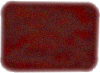
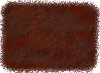
planting updated

diff --git a/SonOfRobin.Core/Game/Craft/CraftData.cs b/SonOfRobin.Core/Game/Craft/CraftData.cs
@@ -34,7 +34,11 @@ namespace SonOfRobin
 
                 new Craft.Recipe(pieceToCreate: PieceTemplate.Name.Campfire, ingredients: new Dictionary<PieceTemplate.Name, byte> { { PieceTemplate.Name.Stone, 8 }}, fatigue: fatigueStructureSmall, isReversible: true),
 
-                new Craft.Recipe(pieceToCreate: PieceTemplate.Name.FertileGroundMedium, ingredients: new Dictionary<PieceTemplate.Name, byte> { { PieceTemplate.Name.Clay, 2 }, { PieceTemplate.Name.ShovelStone, 2 }}, fatigue: fatigueStructureMedium, isReversible: false, isHidden: true),
+                new Craft.Recipe(pieceToCreate: PieceTemplate.Name.FertileGroundSmall, ingredients: new Dictionary<PieceTemplate.Name, byte> { { PieceTemplate.Name.Clay, 2 }, { PieceTemplate.Name.ShovelStone, 1 }}, fatigue: fatigueStructureSmall, isReversible: false, isHidden: true, unlocksWhenCrafted: new List<PieceTemplate.Name> {PieceTemplate.Name.FertileGroundMedium }, craftCountToUnlock: 3),
+
+                new Craft.Recipe(pieceToCreate: PieceTemplate.Name.FertileGroundMedium, ingredients: new Dictionary<PieceTemplate.Name, byte> { { PieceTemplate.Name.Clay, 4 }, { PieceTemplate.Name.ShovelStone, 1 }}, fatigue: fatigueStructureMedium, isReversible: false, isHidden: true, unlocksWhenCrafted: new List<PieceTemplate.Name> {PieceTemplate.Name.FertileGroundBig }, craftCountToUnlock: 2),
+
+                new Craft.Recipe(pieceToCreate: PieceTemplate.Name.FertileGroundBig, ingredients: new Dictionary<PieceTemplate.Name, byte> { { PieceTemplate.Name.Clay, 6 }, { PieceTemplate.Name.ShovelIron, 1 }}, fatigue: fatigueStructureBig, isReversible: false, isHidden: true),
 
                 new Craft.Recipe(pieceToCreate: PieceTemplate.Name.TentSmall, ingredients: new Dictionary<PieceTemplate.Name, byte> { { PieceTemplate.Name.Stick, 20 }, { PieceTemplate.Name.WoodLogRegular, 4 }}, fatigue: fatigueStructureSmall,  isReversible: true, unlocksWhenCrafted: new List<PieceTemplate.Name> { PieceTemplate.Name.TentMedium }),
 
@@ -89,7 +93,7 @@ namespace SonOfRobin
 
                 new Craft.Recipe(pieceToCreate: PieceTemplate.Name.SpearStone, ingredients: new Dictionary<PieceTemplate.Name, byte> { { PieceTemplate.Name.Stick, 3 }, { PieceTemplate.Name.WoodLogRegular, 1 }, { PieceTemplate.Name.Stone, 4 }}, fatigue: fatigueItemSmall, isReversible: true, isHidden: true, unlocksWhenCrafted: new List<PieceTemplate.Name> {PieceTemplate.Name.SpearIron }),
 
-                new Craft.Recipe(pieceToCreate: PieceTemplate.Name.ShovelStone, ingredients: new Dictionary<PieceTemplate.Name, byte> { { PieceTemplate.Name.WoodLogHard, 1 }, { PieceTemplate.Name.Stone, 4 }}, fatigue: fatigueItemMedium, isReversible: true, isHidden: false, unlocksWhenCrafted: new List<PieceTemplate.Name> {PieceTemplate.Name.ShovelIron, PieceTemplate.Name.FertileGroundMedium }, craftCountToUnlock: 2),
+                new Craft.Recipe(pieceToCreate: PieceTemplate.Name.ShovelStone, ingredients: new Dictionary<PieceTemplate.Name, byte> { { PieceTemplate.Name.WoodLogHard, 1 }, { PieceTemplate.Name.Stone, 4 }}, fatigue: fatigueItemMedium, isReversible: true, isHidden: false, unlocksWhenCrafted: new List<PieceTemplate.Name> {PieceTemplate.Name.ShovelIron, PieceTemplate.Name.FertileGroundSmall }, craftCountToUnlock: 2),
 
                 new Craft.Recipe(pieceToCreate: PieceTemplate.Name.TorchBig, ingredients: new Dictionary<PieceTemplate.Name, byte> { { PieceTemplate.Name.WoodLogHard, 1 }, { PieceTemplate.Name.BottleOfOil, 1 }}, fatigue: fatigueItemBig, isHidden: true),
 

diff --git a/SonOfRobin.Core/Game/Pieces/PiecesHelpers/_PieceInfo.cs b/SonOfRobin.Core/Game/Pieces/PiecesHelpers/_PieceInfo.cs
@@ -2321,6 +2321,21 @@ namespace SonOfRobin
                         this.isAffectedByWind = false;
                         break;
 
+                    case PieceTemplate.Name.FertileGroundSmall:
+                        this.category = BoardPiece.Category.Dirt;
+                        this.blocksPlantGrowth = false;
+                        this.blocksMovement = false;
+                        this.allowedDensity = new AllowedDensity(radious: 200, maxNoOfPiecesSameName: 1);
+                        this.isAffectedByWind = false;
+                        this.destroysPlantsWhenBuilt = true;
+                        this.fertileGroundSoilWealthMultiplier = 1.4f;
+
+                        this.Yield = new Yield(debrisType: Yield.DebrisType.Stone,
+                            firstDroppedPieces: new List<Yield.DroppedPiece> { },
+                            finalDroppedPieces: new List<Yield.DroppedPiece> { new Yield.DroppedPiece(pieceName: PieceTemplate.Name.Clay, chanceToDrop: 70, maxNumberToDrop: 1) });
+
+                        break;
+
                     case PieceTemplate.Name.FertileGroundMedium:
                         this.category = BoardPiece.Category.Dirt;
                         this.blocksPlantGrowth = false;
@@ -2332,7 +2347,22 @@ namespace SonOfRobin
 
                         this.Yield = new Yield(debrisType: Yield.DebrisType.Stone,
                             firstDroppedPieces: new List<Yield.DroppedPiece> { },
-                            finalDroppedPieces: new List<Yield.DroppedPiece> { new Yield.DroppedPiece(pieceName: PieceTemplate.Name.Clay, chanceToDrop: 70, maxNumberToDrop: 1) });
+                            finalDroppedPieces: new List<Yield.DroppedPiece> { new Yield.DroppedPiece(pieceName: PieceTemplate.Name.Clay, chanceToDrop: 70, maxNumberToDrop: 2) });
+
+                        break;
+
+                    case PieceTemplate.Name.FertileGroundBig:
+                        this.category = BoardPiece.Category.Dirt;
+                        this.blocksPlantGrowth = false;
+                        this.blocksMovement = false;
+                        this.allowedDensity = new AllowedDensity(radious: 200, maxNoOfPiecesSameName: 1);
+                        this.isAffectedByWind = false;
+                        this.destroysPlantsWhenBuilt = true;
+                        this.fertileGroundSoilWealthMultiplier = 2.2f;
+
+                        this.Yield = new Yield(debrisType: Yield.DebrisType.Stone,
+                            firstDroppedPieces: new List<Yield.DroppedPiece> { },
+                            finalDroppedPieces: new List<Yield.DroppedPiece> { new Yield.DroppedPiece(pieceName: PieceTemplate.Name.Clay, chanceToDrop: 70, maxNumberToDrop: 3) });
 
                         break;
 

diff --git a/SonOfRobin.Core/Game/Pieces/PiecesHelpers/_PieceTemplate.cs b/SonOfRobin.Core/Game/Pieces/PiecesHelpers/_PieceTemplate.cs
@@ -271,7 +271,9 @@ namespace SonOfRobin
 
             MeatRawPrime,
             ParticleEmitter, // TODO make useful
+            FertileGroundSmall,
             FertileGroundMedium,
+            FertileGroundBig,
         }
 
         public static readonly Name[] allNames = (Name[])Enum.GetValues(typeof(Name));
@@ -2772,6 +2774,18 @@ namespace SonOfRobin
                         return visualEffect;
                     }
 
+                case Name.FertileGroundSmall:
+                    {
+                        AllowedTerrain allowedTerrain = new AllowedTerrain(rangeDict: new Dictionary<Terrain.Name, AllowedRange>() {
+                            { Terrain.Name.Height, new AllowedRange(min: 105, max: Terrain.rocksLevelMin) },
+                            { Terrain.Name.Biome, new AllowedRange(min: 0, max: (byte)(Terrain.biomeMin - 1)) },
+                        });
+
+                        FertileGround patch = new FertileGround(world: world, id: id, animPackage: AnimData.PkgName.FertileGroundSmall, name: templateName, allowedTerrain: allowedTerrain, readableName: "fertile ground (small)", description: "Seeds can be planted here.", maxHitPoints: 60);
+
+                        return patch;
+                    }
+
                 case Name.FertileGroundMedium:
                     {
                         AllowedTerrain allowedTerrain = new AllowedTerrain(rangeDict: new Dictionary<Terrain.Name, AllowedRange>() {
@@ -2780,6 +2794,18 @@ namespace SonOfRobin
                         });
 
                         FertileGround patch = new FertileGround(world: world, id: id, animPackage: AnimData.PkgName.FertileGroundMedium, name: templateName, allowedTerrain: allowedTerrain, readableName: "fertile ground (medium)", description: "Seeds can be planted here.", maxHitPoints: 80);
+
+                        return patch;
+                    }
+
+                case Name.FertileGroundBig:
+                    {
+                        AllowedTerrain allowedTerrain = new AllowedTerrain(rangeDict: new Dictionary<Terrain.Name, AllowedRange>() {
+                            { Terrain.Name.Height, new AllowedRange(min: 105, max: Terrain.rocksLevelMin) },
+                            { Terrain.Name.Biome, new AllowedRange(min: 0, max: (byte)(Terrain.biomeMin - 1)) },
+                        });
+
+                        FertileGround patch = new FertileGround(world: world, id: id, animPackage: AnimData.PkgName.FertileGroundMedium, name: templateName, allowedTerrain: allowedTerrain, readableName: "fertile ground (big)", description: "Seeds can be planted here.", maxHitPoints: 100);
 
                         return patch;
                     }

diff --git a/SonOfRobin.Core/Game/Animation/AnimData.cs b/SonOfRobin.Core/Game/Animation/AnimData.cs
@@ -7,7 +7,7 @@ namespace SonOfRobin
 {
     public class AnimData
     {
-        public const float currentVersion = 1.000003f; // version number should be incremented with any change of graphics assets
+        public const float currentVersion = 1.000004f; // version number should be incremented when any existing asset is updated
 
         public static readonly Dictionary<string, AnimFrame> frameById = new Dictionary<string, AnimFrame>(); // needed to access frames directly by id (for loading and saving game)
         public static readonly Dictionary<string, List<AnimFrame>> frameListById = new Dictionary<string, List<AnimFrame>>();
@@ -373,7 +373,9 @@ namespace SonOfRobin
 
             SeaWave,
             MeatRawPrime,
+            FertileGroundSmall,
             FertileGroundMedium,
+            FertileGroundBig,
         }
 
         public static void AddFrameList(PkgName animPackage, int animSize, List<AnimFrame> frameList, string animName = "default")
@@ -762,6 +764,8 @@ namespace SonOfRobin
             AddFrameList(animPackage: PkgName.MeatRawRegular, animSize: 0, frameList: ConvertImageToFrameList(atlasName: "meat_raw_regular", layer: 0, scale: 0.1f));
             AddFrameList(animPackage: PkgName.MeatRawPrime, animSize: 0, frameList: ConvertImageToFrameList(atlasName: "meat_raw_prime", layer: 0, scale: 0.1f));
             AddFrameList(animPackage: PkgName.FertileGroundMedium, animSize: 0, frameList: ConvertImageToFrameList(atlasName: "fertile_ground_medium", layer: -1, scale: 1f));
+            AddFrameList(animPackage: PkgName.FertileGroundBig, animSize: 0, frameList: ConvertImageToFrameList(atlasName: "fertile_ground_big", layer: -1, scale: 1f));
+            AddFrameList(animPackage: PkgName.FertileGroundSmall, animSize: 0, frameList: ConvertImageToFrameList(atlasName: "fertile_ground_small", layer: -1, scale: 1f));
             AddFrameList(animPackage: PkgName.MeatDried, animSize: 0, frameList: ConvertImageToFrameList(atlasName: "meat_dried", layer: 0, scale: 0.1f));
             AddFrameList(animPackage: PkgName.JarWhole, animSize: 0, frameList: ConvertImageToFrameList(atlasName: "jar_sealed", layer: 1, scale: 0.6f));
             AddFrameList(animPackage: PkgName.JarBroken, animSize: 0, frameList: ConvertImageToFrameList(atlasName: "jar_broken", layer: 1, scale: 0.6f));

diff --git a/SonOfRobin.Core/Game/Animation/Sprite.cs b/SonOfRobin.Core/Game/Animation/Sprite.cs
@@ -200,7 +200,7 @@ namespace SonOfRobin
                     if (this.boardPiece.IsPlantMadeByPlayer)
                     {
                         minDistance = 0;
-                        maxDistance = 150;
+                        maxDistance = 200;
                     }
 
                     placedCorrectly = this.FindFreeSpotNearby(position, minDistance: minDistance, maxDistance: maxDistance, ignoreCollisions: ignoreCollisions, precisePlacement: precisePlacement, ignoreDensity: ignoreDensity);
@@ -576,18 +576,24 @@ namespace SonOfRobin
 
             bool plantingMode = this.boardPiece.IsPlantMadeByPlayer;
             if (plantingMode) ignoreDensity = true;
+            bool isPlant = this.boardPiece.GetType() == typeof(Plant);
 
             if (this.boardPiece.pieceInfo.allowedDensity != null && !ignoreDensity && !this.boardPiece.pieceInfo.allowedDensity.CanBePlacedHere(this.boardPiece)) return true;
             if (!plantingMode && !this.allowedTerrain.CanStandHere(world: this.world, position: this.position)) return true;
 
-            var gridTypeToCheck = this.boardPiece.GetType() == typeof(Plant) ? Cell.Group.ColPlantGrowth : Cell.Group.ColMovement;
+            var gridTypeToCheck = isPlant ? Cell.Group.ColPlantGrowth : Cell.Group.ColMovement;
 
             foreach (Sprite sprite in this.world.Grid.GetSpritesFromSurroundingCells(sprite: this, groupName: gridTypeToCheck))
             {
                 if (this.ColRect.Intersects(sprite.ColRect) && sprite.id != this.id) return true;
             }
 
-            if (plantingMode && Plant.GetFertileGround(this.boardPiece) == null) return true;
+            if (isPlant)
+            {
+                FertileGround fertileGround = Plant.GetFertileGround(this.boardPiece);
+                if (plantingMode && fertileGround == null) return true;
+                if (!plantingMode && fertileGround != null) return true;
+            }
 
             return false;
         }

diff --git a/SonOfRobin.Core/Game/Pieces/_BoardPiece.cs b/SonOfRobin.Core/Game/Pieces/_BoardPiece.cs
@@ -568,11 +568,11 @@ namespace SonOfRobin
             return null;
         }
 
-        public void DestroyCollidingPlants(int delay)
+        public void DestroyContainedPlants(int delay)
         {
             if (!this.sprite.IsOnBoard) return;
 
-            var collidingPlants = this.sprite.GetCollidingSprites(new List<Cell.Group> { Cell.Group.Visible }).Where(sprite => sprite.boardPiece.GetType() == typeof(Plant) && sprite.ColRect.Intersects(this.sprite.ColRect));
+            var collidingPlants = this.sprite.GetCollidingSprites(new List<Cell.Group> { Cell.Group.Visible }).Where(sprite => sprite.boardPiece.GetType() == typeof(Plant) && this.sprite.ColRect.Contains(sprite.position));
 
             foreach (Sprite collidingPlant in collidingPlants)
             {

diff --git a/SonOfRobin.Core/Game/Scenes/World.cs b/SonOfRobin.Core/Game/Scenes/World.cs
@@ -1206,7 +1206,7 @@ namespace SonOfRobin
             this.Player.activeState = BoardPiece.State.PlayerWaitForBuilding;
 
             BoardPiece builtPiece = this.Player.recipeToBuild.TryToProducePieces(player: this.Player, showMessages: false)[0];
-            if (builtPiece.pieceInfo.destroysPlantsWhenBuilt) builtPiece.DestroyCollidingPlants(delay: buildDuration);
+            if (builtPiece.pieceInfo.destroysPlantsWhenBuilt) builtPiece.DestroyContainedPlants(delay: buildDuration);
 
             bool plantMode = builtPiece.GetType() == typeof(Plant);
 

diff --git a/SonOfRobin.Core/Game/Pieces/FertileGround.cs b/SonOfRobin.Core/Game/Pieces/FertileGround.cs
@@ -16,7 +16,7 @@ namespace SonOfRobin
         {
             if (!this.exists) return;
 
-            if (!this.world.BuildMode) this.DestroyCollidingPlants(delay: 0); // BuildMode check, to avoid invoking when destroying simulatedPieceToBuild
+            if (!this.world.BuildMode) this.DestroyContainedPlants(delay: 0); // BuildMode check, to avoid invoking when destroying simulatedPieceToBuild
             base.Destroy();
         }
 
